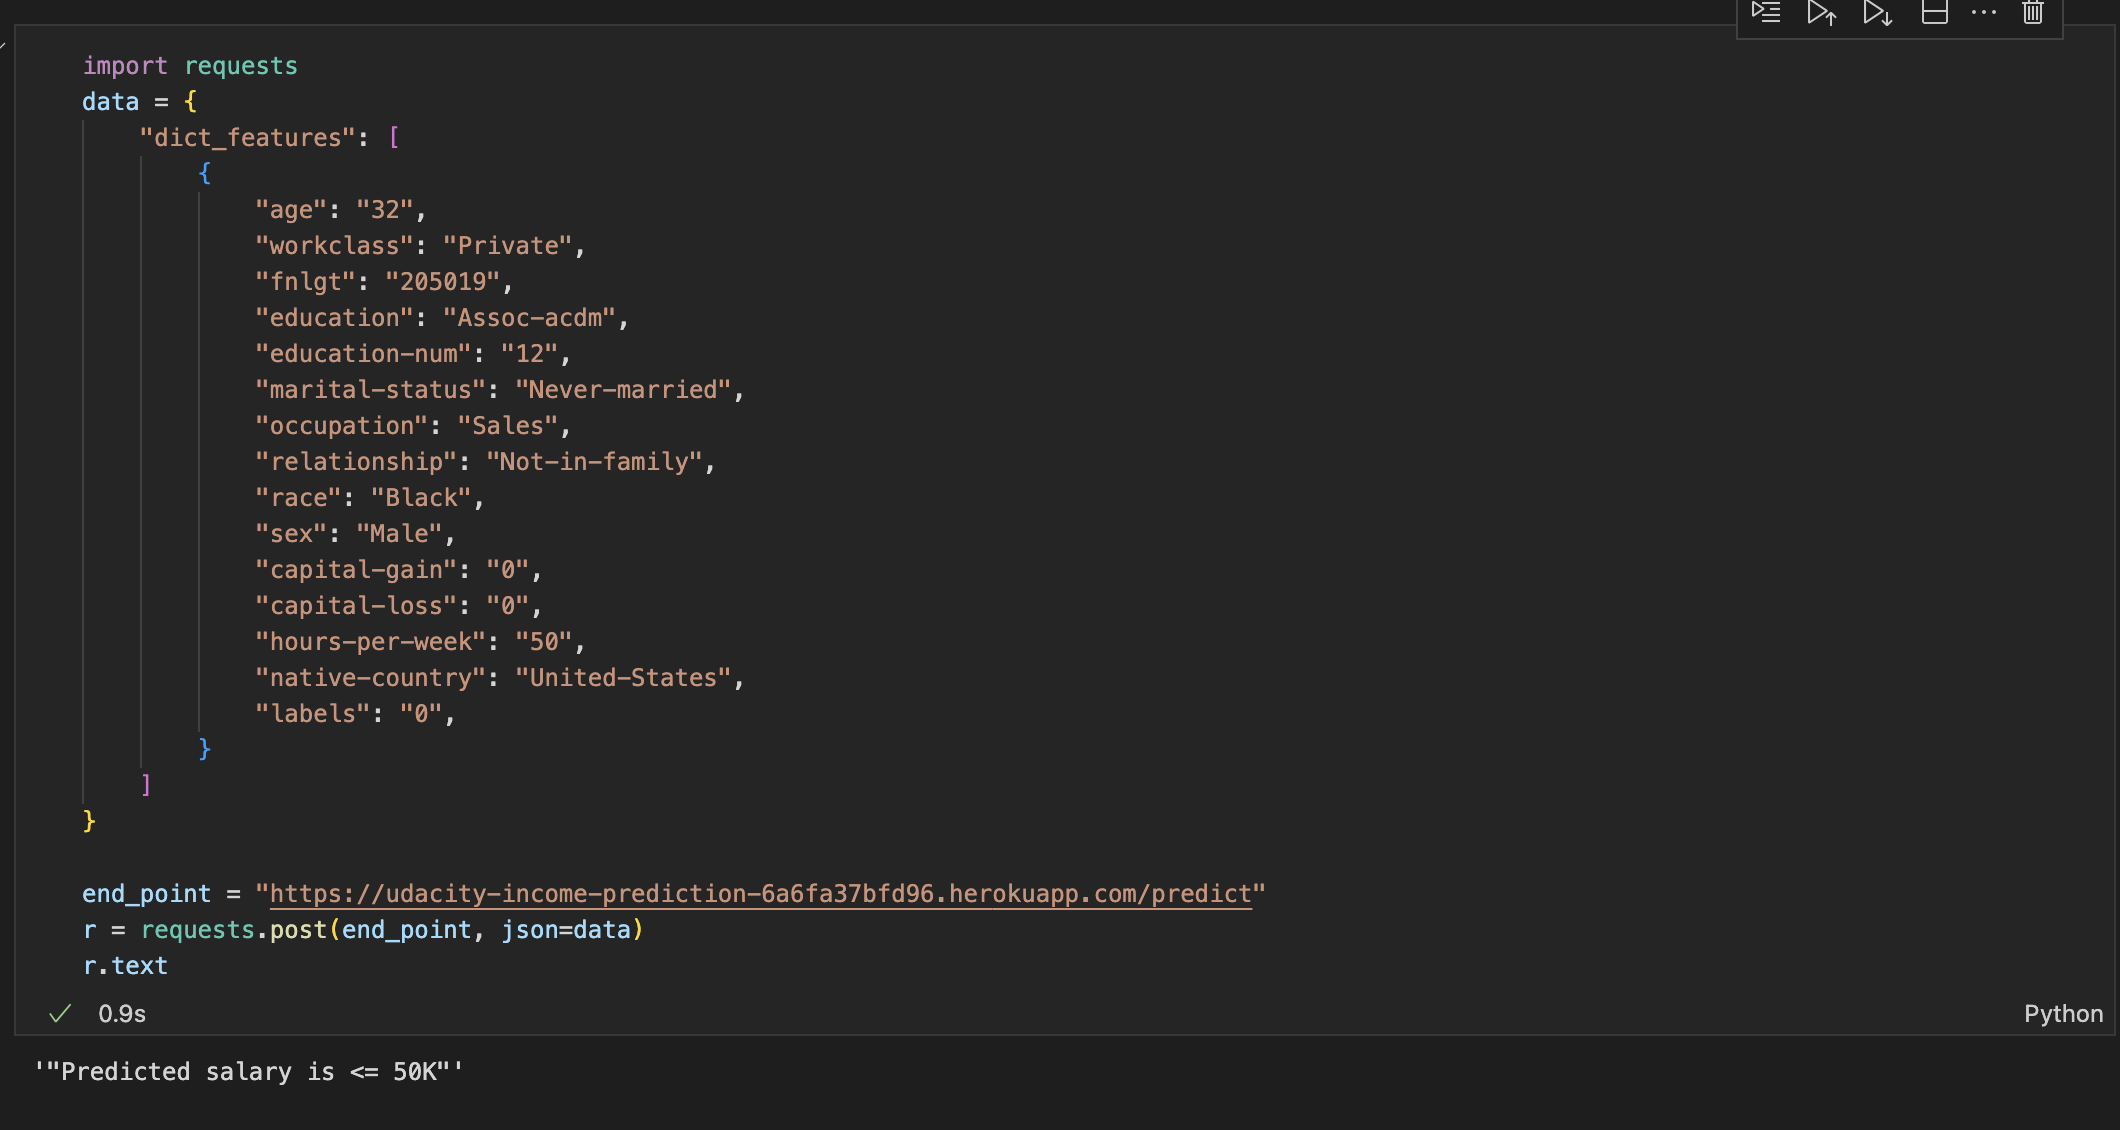
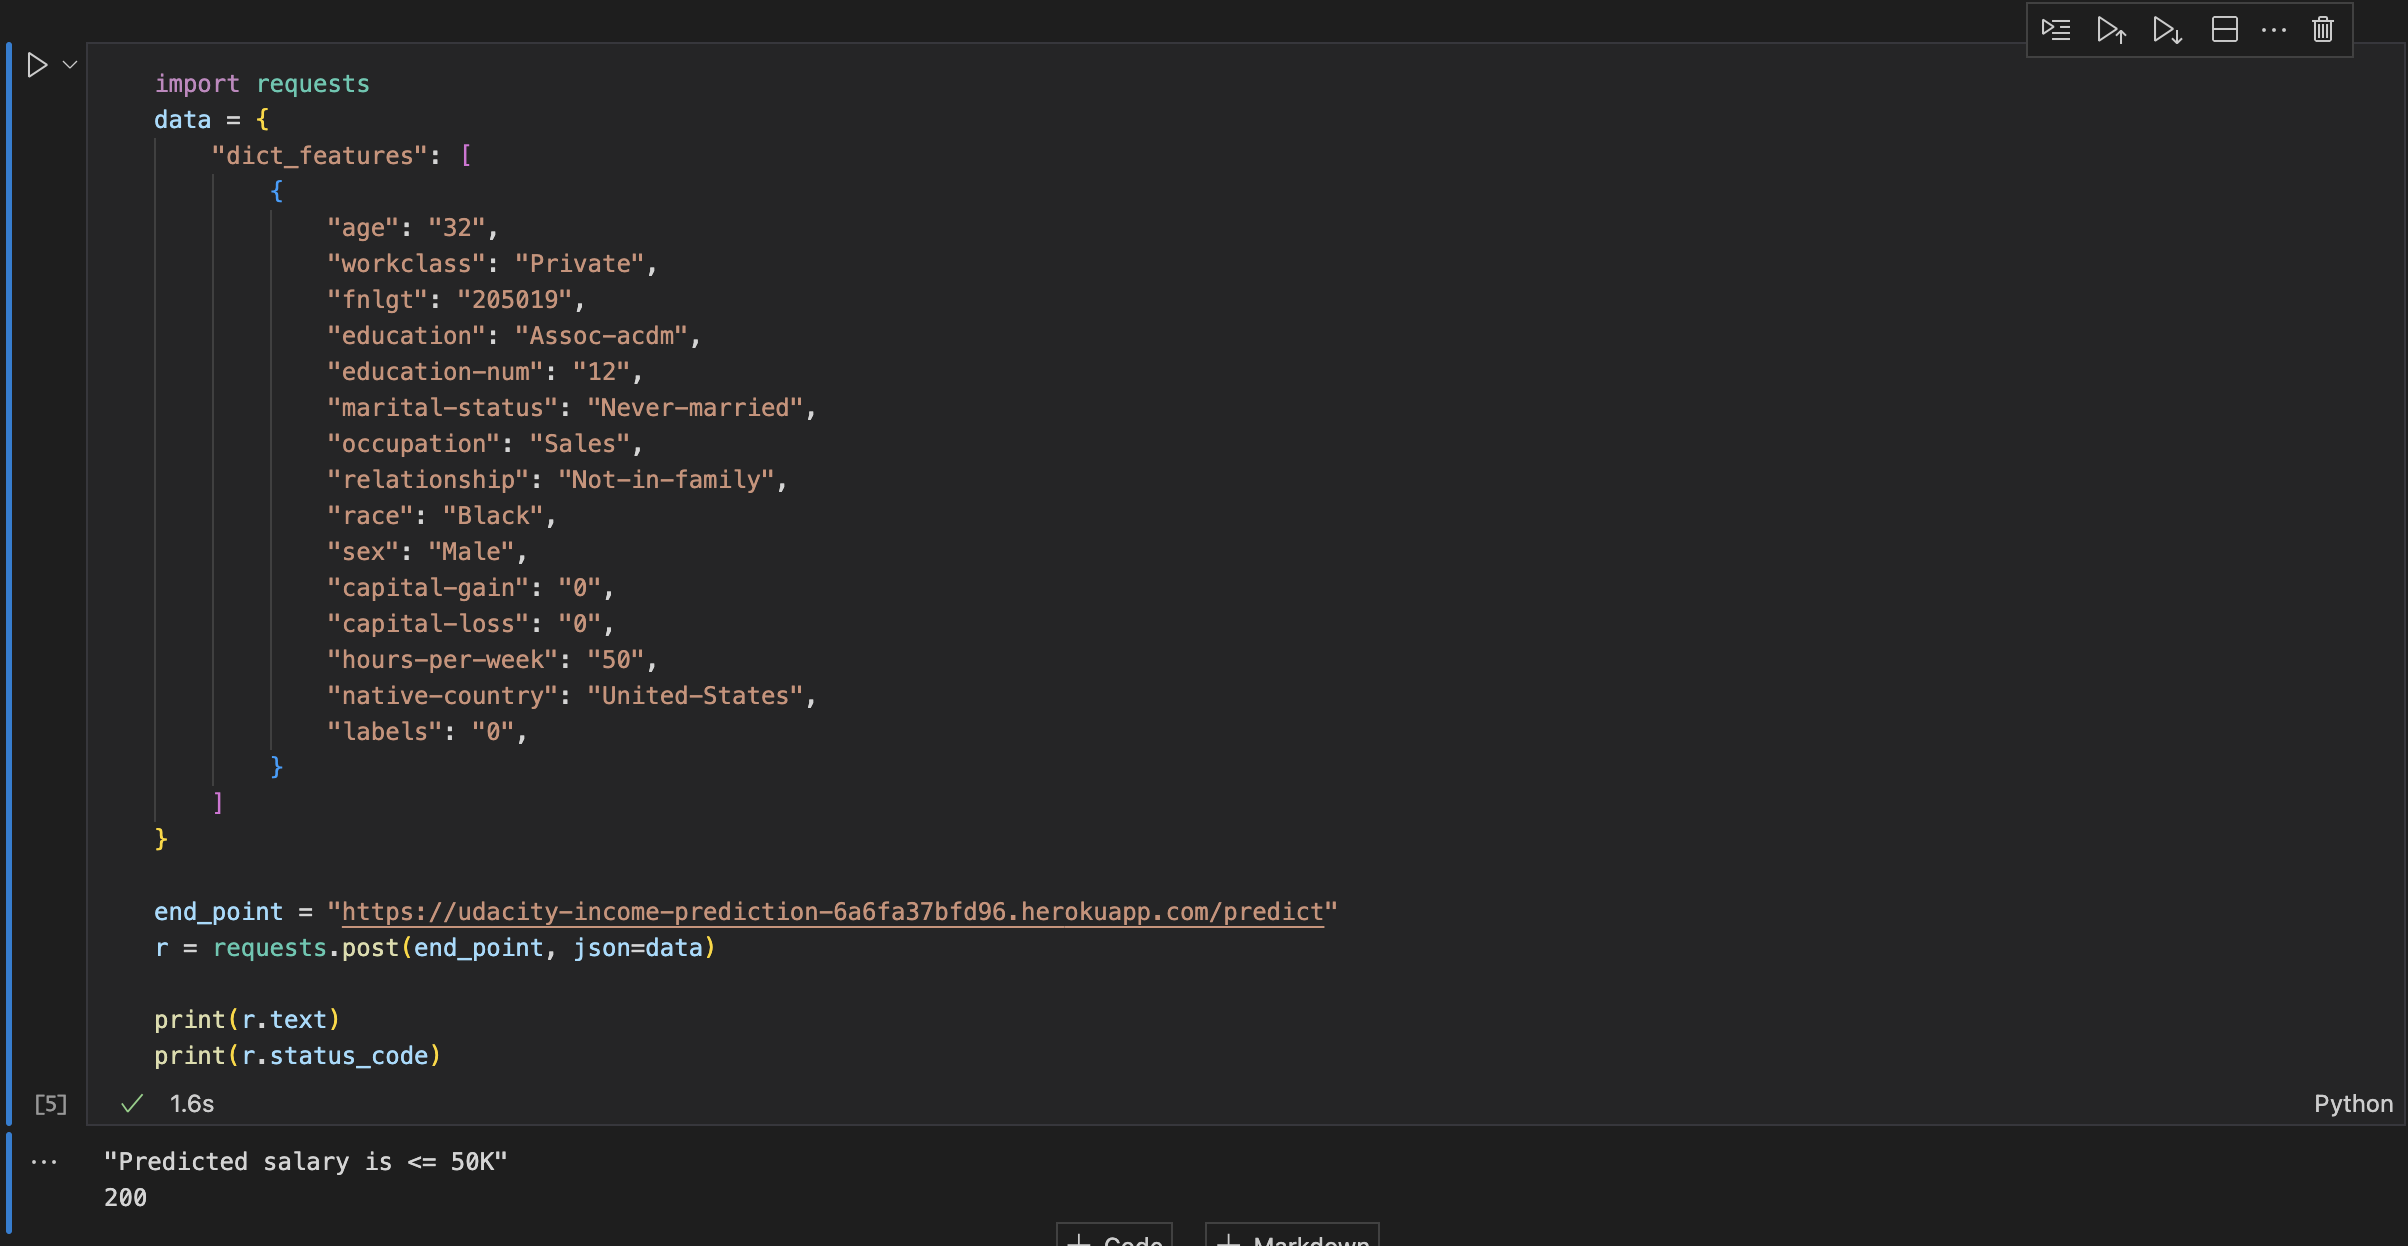
added alias_generator

diff --git a/tests/test_main.py b/tests/test_main.py
@@ -10,25 +10,21 @@ client = TestClient(app)
 @pytest.fixture
 def test_data_negative():
     data = {
-        "dict_features": [
-            {
-                "age": "32",
-                "workclass": "Private",
-                "fnlgt": "205019",
-                "education": "Assoc-acdm",
-                "education-num": "12",
-                "marital-status": "Never-married",
-                "occupation": "Sales",
-                "relationship": "Not-in-family",
-                "race": "Black",
-                "sex": "Male",
-                "capital-gain": "0",
-                "capital-loss": "0",
-                "hours-per-week": "50",
-                "native-country": "United-States",
-                "labels": "0",
-            }
-        ]
+        "age": 32,
+        "workclass": "Private",
+        "fnlgt": 205019,
+        "education": "Assoc-acdm",
+        "education_num": 12,
+        "marital_status": "Never-married",
+        "occupation": "Sales",
+        "relationship": "Not-in-family",
+        "race": "Black",
+        "sex": "Male",
+        "capital_gain": 0,
+        "capital_loss": 0,
+        "hours_per_week": 50,
+        "native_country": "United-States",
+        "labels": 0,
     }
     return data
 
@@ -36,26 +32,23 @@ def test_data_negative():
 @pytest.fixture
 def test_data_positive():
     data = {
-        "dict_features": [
-            {
-                "age": "46",
-                "workclass": "Self-emp-not-inc",
-                "fnlgt": "198759",
-                "education": "Prof-school",
-                "education-num": "15",
-                "marital-status": "Married-civ-spouse",
-                "occupation": "Prof-specialty",
-                "relationship": "Husband",
-                "race": "White",
-                "sex": "Male",
-                "capital-gain": "0",
-                "capital-loss": "2415",
-                "hours-per-week": "80",
-                "native-country": "United-States",
-                "labels": "1",
-            }
-        ]
+        "age": 46,
+        "workclass": "Self-emp-not-inc",
+        "fnlgt": 198759,
+        "education": "Prof-school",
+        "education_num": 15,
+        "marital_status": "Married-civ-spouse",
+        "occupation": "Prof-specialty",
+        "relationship": "Husband",
+        "race": "White",
+        "sex": "Male",
+        "capital_gain": 0,
+        "capital_loss": 2415,
+        "hours_per_week": 80,
+        "native_country": "United-States",
+        "labels": 1,
     }
+
     return data
 
 
@@ -73,6 +66,7 @@ def test_api_predict_negative(test_data_negative):
 
 def test_api_predict_positive(test_data_positive):
     r = client.post("/predict", json=test_data_positive)
+    print(r.json())
     assert r.status_code == 200
     assert r.json() == "Predicted salary is > 50K"
 
@@ -83,15 +77,16 @@ def test_cloud_api_get():
     assert r.status_code == 200
 
 
-def test_cloud_api_post_positive(test_data_positive):
-    end_point = "https://udacity-income-prediction-6a6fa37bfd96.herokuapp.com/predict"
-    r = requests.post(end_point, json=test_data_positive)
-    assert r.status_code == 200
-    assert r.json() == "Predicted salary is > 50K"
-
-
 def test_cloud_api_post_negative(test_data_negative):
     end_point = "https://udacity-income-prediction-6a6fa37bfd96.herokuapp.com/predict"
-    r = requests.post(end_point, json=test_data_negative)
+    r = requests.post(end_point, json={"dict_features": [test_data_negative]})
+    print(r.json())
     assert r.status_code == 200
     assert r.json() == "Predicted salary is <= 50K"
+
+
+def test_cloud_api_post_positive(test_data_positive):
+    end_point = "https://udacity-income-prediction-6a6fa37bfd96.herokuapp.com/predict"
+    r = requests.post(end_point, json={"dict_features": [test_data_positive]})
+    assert r.status_code == 200
+    assert r.json() == "Predicted salary is > 50K"

diff --git a/main.py b/main.py
@@ -1,7 +1,7 @@
 import os
 import pandas as pd
 import joblib
-from pydantic import BaseModel
+from pydantic import BaseModel, Field
 from typing import Optional, List, Dict, Any
 from fastapi import FastAPI, HTTPException
 from starter.ml.data import process_data
@@ -14,20 +14,42 @@ if "DYNO" in os.environ and os.path.isdir(".dvc"):
         exit("dvc pull failed")
     os.system("rm -r .dvc .apt/usr/lib/dvc")
 
+cat_features = [
+    "workclass",
+    "education",
+    "marital_status",
+    "occupation",
+    "relationship",
+    "race",
+    "sex",
+    "native_country",
+]
+
+
+def to_snake_case(string: str) -> str:
+    return string.replace("-", "_")
+
 
 class Features(BaseModel):
-    # df must contain 15 features.
-    dict_features: List[Dict[str, Any]]
-    cat_features: Optional[List[str]] = [
-        "workclass",
-        "education",
-        "marital-status",
-        "occupation",
-        "relationship",
-        "race",
-        "sex",
-        "native-country",
-    ]
+    age: int = Field(example=32)
+    workclass: str = Field(example="Private")
+    fnlgt: int = Field(example=205019)
+    education: str = Field(example="Assoc-acdm")
+    education_num: int = Field(example=12)
+    marital_status: str = Field(example="Never-married")
+    occupation: str = Field(example="Sales")
+    relationship: str = Field(example="Not-in-family")
+    race: str = Field(example="Black")
+    sex: str = Field(example="Male")
+    capital_gain: int = Field(example=0)
+    capital_loss: int = Field(example=0)
+    hours_per_week: int = Field(example=50)
+    native_country: str = Field(example="United-States")
+    labels: int = Field(example=0)
+
+    class Config:
+        alias_generator = to_snake_case
+        allow_population_by_field_name = True
 
 
 app = FastAPI(
@@ -53,23 +75,18 @@ def home():
 async def predict(features: Features):
     # adding HTTPException for invalid input
 
-    if len(features.dict_features) != 1:
-        raise HTTPException(
-            status_code=400,
-            detail="Invalid input. Please provide only 1 user.",
-        )
-
-    elif len(features.dict_features[0]) != 15:
+    dict_features = features.dict()
+    if len(dict_features) != 15:
         raise HTTPException(
             status_code=400,
             detail="Invalid input. Please provide 15 features for each user.",
         )
 
     model, lb, encoder = await load_model()
-    df = pd.DataFrame(features.dict_features)
+    df = pd.DataFrame(dict_features, index=[0])
     X, Y, encoder, lb = process_data(
         df,
-        categorical_features=features.cat_features,
+        categorical_features=cat_features,
         label="labels",
         training=False,
         encoder=encoder,

diff --git a/test_live_api.py b/test_live_api.py
@@ -1,0 +1,29 @@
+import requests
+
+data = {
+    "dict_features": [
+        {
+            "age": "32",
+            "workclass": "Private",
+            "fnlgt": "205019",
+            "education": "Assoc-acdm",
+            "education-num": "12",
+            "marital-status": "Never-married",
+            "occupation": "Sales",
+            "relationship": "Not-in-family",
+            "race": "Black",
+            "sex": "Male",
+            "capital-gain": "0",
+            "capital-loss": "0",
+            "hours-per-week": "50",
+            "native-country": "United-States",
+            "labels": "0",
+        }
+    ]
+}
+
+end_point = "https://udacity-income-prediction-6a6fa37bfd96.herokuapp.com/predict"
+r = requests.post(end_point, json=data)
+
+print(r.text)
+print(r.status_code)
